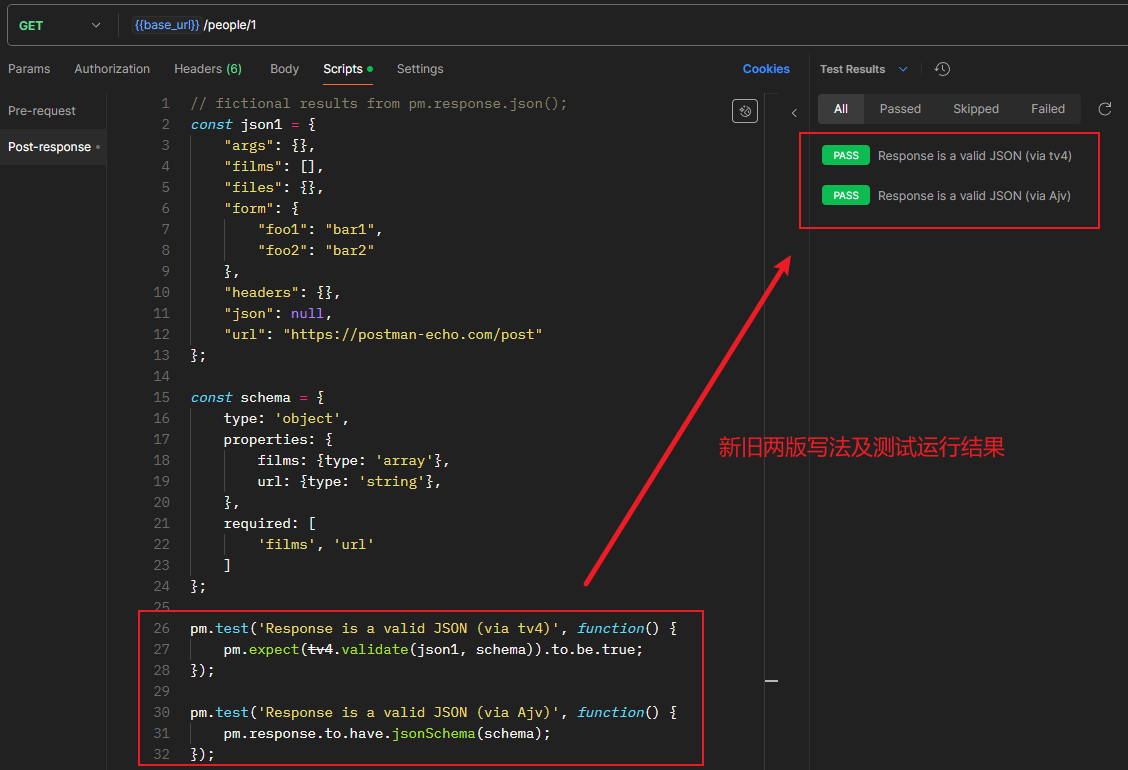
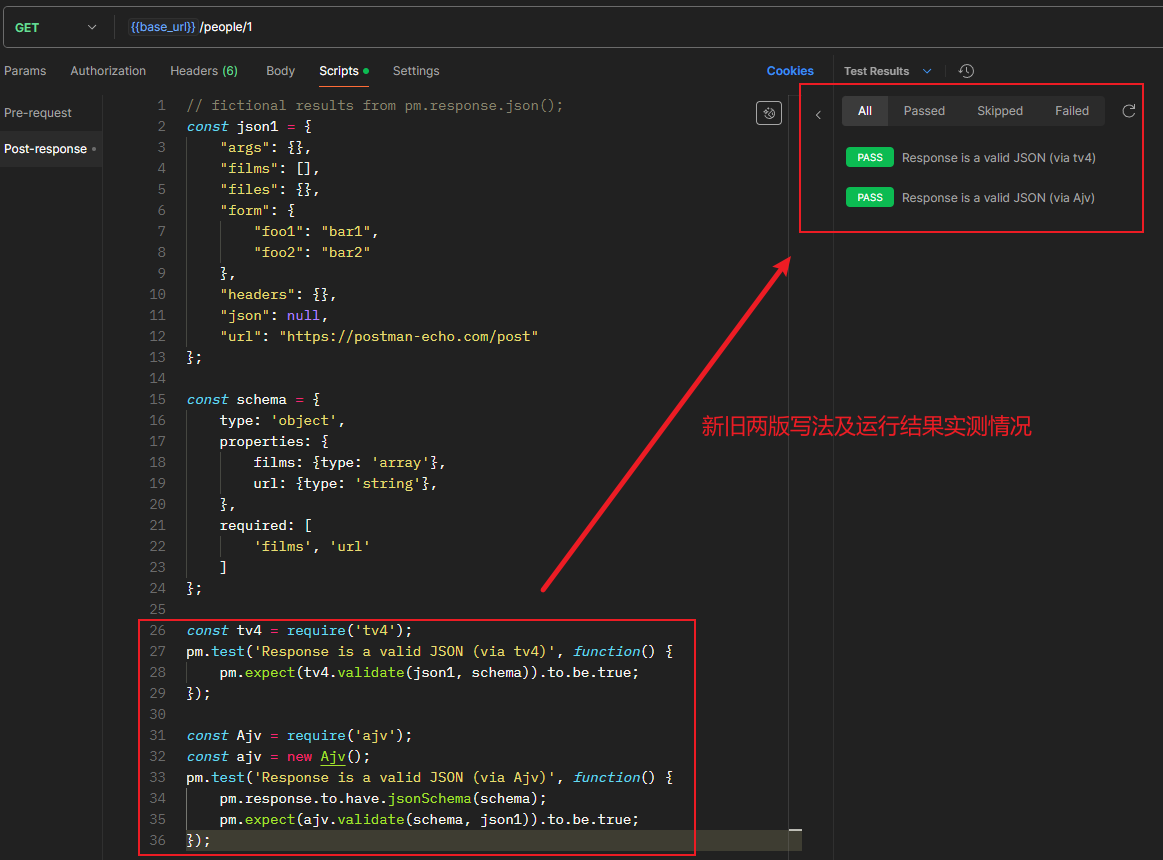
updated notes for Chapter 6 (Part I)

diff --git a/notes/Ch06-Creating-Test-Validation-Scripts.md b/notes/Ch06-Creating-Test-Validation-Scripts.md
@@ -177,6 +177,22 @@ pm.test("Content-Type is present", function () {
 
 
 
+> [!tip]
+>
+> **关于断言结果取反**
+>
+> 可以在上述断言中添加 `.not` 让断言逻辑取反。例如：
+>
+> ```js
+> pm.response.to.not.have.jsonSchema(mySchema);
+> // 或者
+> pm.response.to.have.not.jsonSchema(mySchema);
+> ```
+>
+> 只要加在助动词（`to`）或动词（`have`）后，取反逻辑就成立。
+
+
+
 ### 6.4.2 实测情况
 
 （1）实测 `.body` 对象：
@@ -291,12 +307,16 @@ const schema = {
     ]
 };
 
+const tv4 = require('tv4');
 pm.test('Response is a valid JSON (via tv4)', function() {
     pm.expect(tv4.validate(json1, schema)).to.be.true;
 });
 
+const Ajv = require('ajv');
+const ajv = new Ajv();
 pm.test('Response is a valid JSON (via Ajv)', function() {
     pm.response.to.have.jsonSchema(schema);
+    pm.expect(ajv.validate(schema, json1)).to.be.true;
 });
 ```
 
@@ -305,6 +325,10 @@ pm.test('Response is a valid JSON (via Ajv)', function() {
 ![](assets/6.7.png)
 
 **图 6.8 校验响应 JSON 的 schema 模式时，Postman 新旧两版写法的实测结果对比截图**
+
+
+
+## 6.5 
 
 
 
